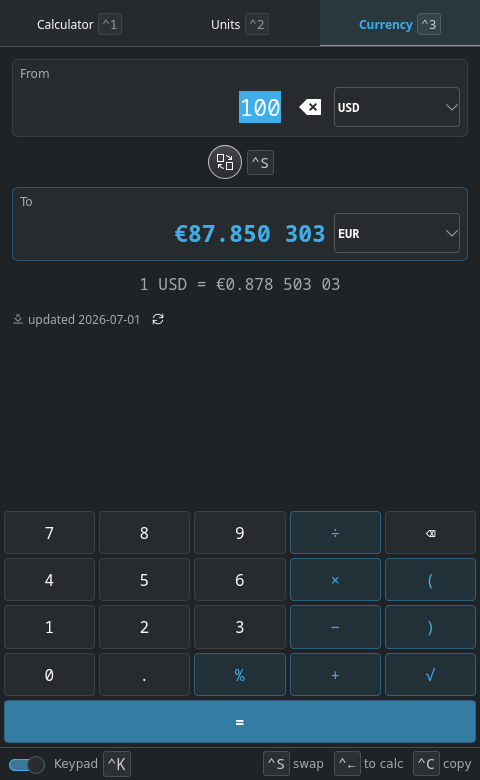
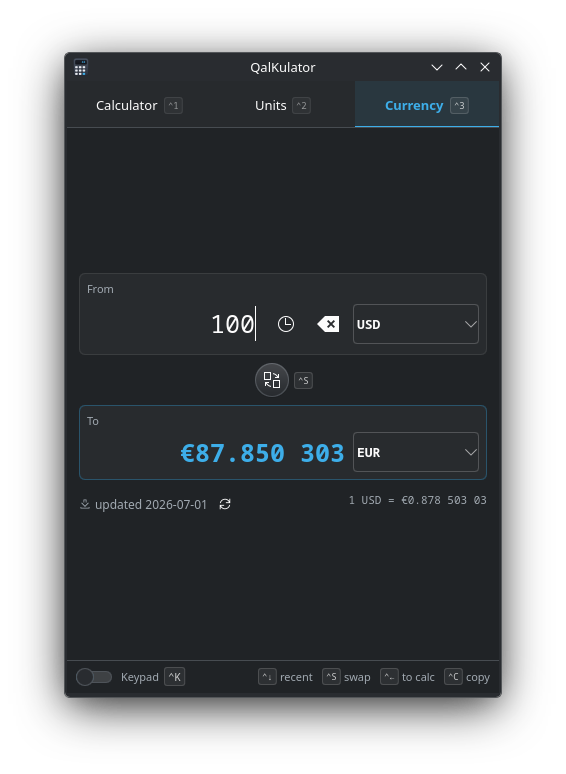
README: marketing screenshots + demo GIF
- refresh calculator/units/currency shots (dark theme, real results)
- add results-dropdown, unit-picker, amount-history, settings shots
- add animated demo.gif (live typing -> feature tour) as the hero
- README: motion hero + "A closer look" gallery + Alt / Ctrl+, key rows

diff --git a/README.md b/README.md
@@ -14,7 +14,9 @@ the keyboard.
 ![Qt 6](https://img.shields.io/badge/Qt-6-41CD52?logo=qt&logoColor=white)
 ![KDE Frameworks 6](https://img.shields.io/badge/KDE%20Frameworks-6-1d99f3)
 
-<img src="screenshots/calculator.png" alt="QalKulator calculator with a live tape of results" width="360">
+<img src="screenshots/demo.gif" alt="QalKulator in action: calculating with a live tape, recalling past results, and converting units and currency" width="380">
+
+<sub>Calculate as you type · recall any result · convert units &amp; currency — all keyboard-first.</sub>
 
 </div>
 
@@ -47,6 +49,35 @@ engine, so the math is correct and the app stays fast and small.
   and a collapsible on-screen keypad that mirrors the keyboard.
 - **Native theming** — follows your Breeze light/dark colour scheme automatically.
 
+## A closer look
+
+<table>
+  <tr>
+    <td width="50%" valign="top" align="center">
+      <img src="screenshots/results-dropdown.png" alt="Recent-results dropdown in the calculator" width="92%"><br>
+      <b>Recall anything</b><br>
+      <sub><code>Ctrl+↓</code> reopens every past result — insert it, or send it straight to a converter.</sub>
+    </td>
+    <td width="50%" valign="top" align="center">
+      <img src="screenshots/unit-picker.png" alt="Searchable unit browser" width="92%"><br>
+      <b>Browse every unit</b><br>
+      <sub><code>Ctrl+U</code> opens a searchable list grouped by category, with the right way to write each.</sub>
+    </td>
+  </tr>
+  <tr>
+    <td width="50%" valign="top" align="center">
+      <img src="screenshots/amount-history.png" alt="Compatible recent results offered inside a converter" width="92%"><br>
+      <b>Flow results onward</b><br>
+      <sub>Converters offer your recent, <i>compatible</i> results — reuse a number without retyping it.</sub>
+    </td>
+    <td width="50%" valign="top" align="center">
+      <img src="screenshots/settings.png" alt="Settings dialog" width="92%"><br>
+      <b>Tune the details</b><br>
+      <sub>Result format, precision, digit grouping and angle unit — sensible defaults, yours to change.</sub>
+    </td>
+  </tr>
+</table>
+
 ## Keyboard
 
 | Key | Action |
@@ -58,6 +89,8 @@ engine, so the math is correct and the app stays fast and small.
 | `Ctrl+U` | Browse & insert a unit |
 | `Ctrl+→` / `Ctrl+←` | Send a result to the converter / send it back |
 | `Ctrl+S` · `Ctrl+K` · `Ctrl+C` | Swap from/to · toggle keypad · copy result |
+| `Alt` | Reveal the access-key overlay (then `Alt+C` / `Alt+U` / `Alt+R` jump to a mode) |
+| `Ctrl+,` | Open settings |
 
 ## Build
 